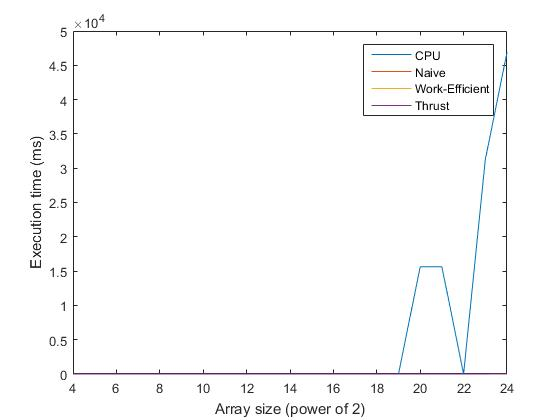
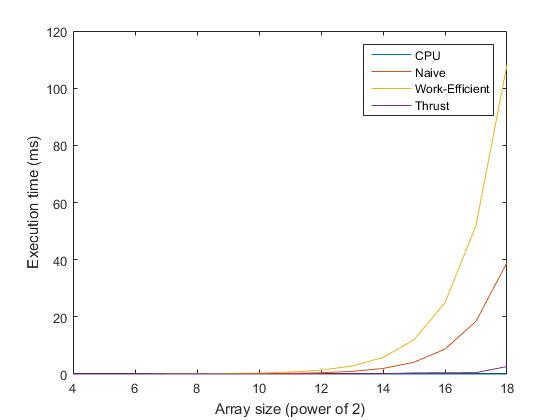
update write up

diff --git a/src/main.cpp b/src/main.cpp
@@ -150,7 +150,7 @@ int main(int argc, char* argv[]) {
 	printf("** SCAN PERFORMANCE **\n");
 	printf("*****************************\n");
 
-	for (int s = 4; s < 25; s++){
+	for (int s = 4; s < 19; s++){
 		int ssize = 1 << s;
 		int *u, *v;
 		u = (int *)malloc(ssize*sizeof(int));
@@ -162,7 +162,7 @@ int main(int argc, char* argv[]) {
 		auto start = std::chrono::high_resolution_clock::now();
 		StreamCompaction::CPU::scan(ssize, v, u);
 		auto end = std::chrono::high_resolution_clock::now();
-		double diff = std::chrono::duration_cast<std::chrono::microseconds>(end-start).count();
+		double diff = std::chrono::duration_cast<std::chrono::milliseconds>(end-start).count();
 		printf("CPU scan: %f\n", diff);
 
 		zeroArray(ssize, v);

diff --git a/README.md b/README.md
@@ -24,6 +24,7 @@ Block size is optimized based on fixed array size (256) and number of blocks. `[
   * Work efficient scan: 2 blocks / 128 threads has the best execution time
 
 ### Performance
+All 4 implementations are ran on various array sizes from `2^4` to `2^18`. Due to memory constraints bigger array sizes are not available.
 
   * All performances
 
@@ -38,16 +39,20 @@ Block size is optimized based on fixed array size (256) and number of blocks. `[
 ![](images/custom-only-performance.jpg)
 
 * Observations
-  * CPU profiling is very unstable, as C++11 `chrono` is not able to return reliable numbers from time to time. However, even under this situation it is obvious that CPU scan execution time increases dramatically as the array size grows. We would assume CPU implementation is `O(n)` and therefore array size is the performance bottleneck. 
-  * Theoretically work-efficient scan should be faster than a naive scan. However somehow this is not the case in performance testing with small array sizes. A profile report shows that up-sweep process is generating 2 times memory transactions as a naive scan. Adding down-sweep process, work-efficient method has about 2.5x as naive method. Also in general naive implementation has a better Occupancy Per SM rate, in term of number of its active blocks against device limit. All these could contribute to a faster execution of naive scan, compared to current work-efficient implementation.
-  * For the sudden performance "improvement" around `2^10`, the reason is simply because all of the available hardware resources are saturated. Since the block size is calculated based on array size over a fixed grid size, the current naive and work-efficient implementation does not handle sizes that go beyond the device limit. Namely, for naive it is `4*512=2^11` and for work-efficient `2*512=2^10`. If they were to have some routines to handle bigger sizes, the performance is expected to be similar to thrust, because the array has to be broken into tiles for calculation, and then merged back again.
-  * Thrust seems to have the best performance. As array size grows its performance goes down, and seems to be worse than naive and work-efficient methods. However as stated above, if these two methods can handle bigger sizes, thrust would still have the best performance among all. From Nsight timeline we can see that it is splitting the problem into tiles and doing work-efficient scan. Thrust runs in 40 blocks with 128 threads each, which accounts for a size of 5120, which is about `2^12`. When array size grows big, building tiles and merging results would be the major bottleneck.
-  * All of the GPU implementations are much better than a CPU one, in terms of scaling to big data set. It seems that for bigger problems, computation power is more of a serious problem than memory I/O, when such I/O are constant.
+  * Theoretically work-efficient scan should be faster than a naive scan. However somehow this is not the case in performance testing with small array sizes. A profile report shows the following which might contribute to the result:
+    * Up-sweep is generating 100% more memory transactions than a naive scan. Adding down-sweep process, work-efficient method has about 150% more than naive method.
+    * Up-sweep is executing 50% more integer operations than naive method.
+    * In general work-efficient method has 8% divergence, while naive method has none.
+    * In general naive implementation has a better Occupancy Per SM rate, in term of number of its active blocks against device limit. All these could contribute to a faster execution of naive scan, compared to current work-efficient implementation.
+  * Thrust seems to have the best performance among GPU implementations. From Nsight timeline we can see that it is splitting the problem into tiles and doing work-efficient scan. Thrust runs in 40 blocks with 128 threads each, which accounts for a size of 5120, which is about `2^12`. When array size grows big, building tiles and merging results would be a major bottleneck.
+  * As array size grows, GPU hardware resources get saturated. More blocks can only be scheduled sequentially, thereby reducing the performance significantly. On the other hand, issue efficiency drops, resulting in wasted cycles.
+  * With almost 0% cache hit rate, as array size increases, more and more time is needed for memory I/O operations.
+  * With all of the factors above combined, the CPU implementation is actually much faster than GPU in the final result. C++11 `chrono` library was only able to pick up the execution time in milliseconds when the CPU code is ran in another nested for-loop for about `2^8` times. The guess is that CPU can still have the best performance up to a point, where linear computation cost outweighs memory I/O time.
 
 * Test program output
   * The extra output `XXX scan: 0.0000000` is used for profiling the execution time of each implementation
   * Radix sort test is also printed, where the test is carried out on the array generated in stream compaction test, and compared against standard C++ vector sort
-  * Performance comparision is also printed. All 4 implementations are ran on various array sizes from `2^4` to `2^24`
+  * Performance comparision is also printed. All 4 implementations are ran on various array sizes from `2^4` to `2^18`
 
 ```
 ****************
@@ -60,7 +65,7 @@ Block size is optimized based on fixed array size (256) and number of blocks. `[
     [   0  38  57  95 132 137 184 199 234 234 246 249 249 ... 6146 6190 ]
     passed
 ==== naive scan, power-of-two ====
-Naive scan: 0.042400
+Naive scan: 0.042304
     passed
 ==== naive scan, non-power-of-two ====
 Naive scan: 0.041088
@@ -69,13 +74,13 @@ Naive scan: 0.041088
 Work-efficient scan: 0.127552
     passed
 ==== work-efficient scan, non-power-of-two ====
-Work-efficient scan: 0.126624
+Work-efficient scan: 0.126304
     passed
 ==== thrust scan, power-of-two ====
-Thrust scan: 3.615200
+Thrust scan: 3.756288
     passed
 ==== thrust scan, non-power-of-two ====
-Thrust scan: 0.016640
+Thrust scan: 0.016544
     passed
 
 *****************************
@@ -92,23 +97,23 @@ Thrust scan: 0.016640
     [   2   3   2   1   3   1   1   1   2   1   2   1   1 ...   2   1 ]
     passed
 ==== work-efficient compact, power-of-two ====
-Work-efficient scan: 0.125120
+Work-efficient scan: 0.125088
     passed
 ==== work-efficient compact, non-power-of-two ====
-Work-efficient scan: 0.125248
+Work-efficient scan: 0.125120
     passed
 
 *****************************
 ** RADIX SORT (Single block/tile) TEST **
 *****************************
-Thrust scan: 0.016576
-Thrust scan: 0.014912
-Thrust scan: 0.014976
-Thrust scan: 0.015008
-Thrust scan: 0.015008
-Thrust scan: 0.014912
+Thrust scan: 0.016512
+Thrust scan: 0.015072
 Thrust scan: 0.014912
 Thrust scan: 0.015008
+Thrust scan: 0.014912
+Thrust scan: 0.014944
+Thrust scan: 0.015008
+Thrust scan: 0.019840
 Radix sort:
     [   0   0   0   0   0   0   0   0   0   0   0   0   0 ...   3   3 ]
 Std sort:
@@ -120,129 +125,93 @@ Std sort:
 *****************************
 ==== Array size: 16 ====
 CPU scan: 0.000000
-Naive scan: 0.020928
-Work-efficient scan: 0.060864
-Thrust scan: 0.017600
+Naive scan: 0.001536
+Work-efficient scan: 0.003136
+Thrust scan: 0.016672
 
 ==== Array size: 32 ====
 CPU scan: 0.000000
-Naive scan: 0.024800
-Work-efficient scan: 0.074144
-Thrust scan: 0.016416
+Naive scan: 0.001536
+Work-efficient scan: 0.003040
+Thrust scan: 0.016512
 
 ==== Array size: 64 ====
 CPU scan: 0.000000
-Naive scan: 0.029664
-Work-efficient scan: 0.087968
-Thrust scan: 0.016736
+Naive scan: 0.029120
+Work-efficient scan: 0.003104
+Thrust scan: 0.016416
 
 ==== Array size: 128 ====
 CPU scan: 0.000000
-Naive scan: 0.033600
-Work-efficient scan: 0.101184
-Thrust scan: 0.016480
+Naive scan: 0.033376
+Work-efficient scan: 0.111296
+Thrust scan: 0.016512
 
 ==== Array size: 256 ====
 CPU scan: 0.000000
-Naive scan: 0.041376
-Work-efficient scan: 0.126336
-Thrust scan: 0.016608
+Naive scan: 0.041056
+Work-efficient scan: 0.126304
+Thrust scan: 0.016512
 
 ==== Array size: 512 ====
 CPU scan: 0.000000
-Naive scan: 0.062336
-Work-efficient scan: 0.193728
-Thrust scan: 0.016672
+Naive scan: 0.063456
+Work-efficient scan: 0.194720
+Thrust scan: 0.016736
 
 ==== Array size: 1024 ====
 CPU scan: 0.000000
-Naive scan: 0.110176
-Work-efficient scan: 0.346016
-Thrust scan: 0.017088
+Naive scan: 0.112128
+Work-efficient scan: 0.352768
+Thrust scan: 0.017056
 
 ==== Array size: 2048 ====
 CPU scan: 0.000000
-Naive scan: 0.219840
-Work-efficient scan: 0.003296
-Thrust scan: 0.020192
+Naive scan: 0.216704
+Work-efficient scan: 0.685760
+Thrust scan: 0.020064
 
 ==== Array size: 4096 ====
 CPU scan: 0.000000
-Naive scan: 0.001504
-Work-efficient scan: 0.003008
-Thrust scan: 0.025056
+Naive scan: 0.439424
+Work-efficient scan: 1.365280
+Thrust scan: 0.024992
 
 ==== Array size: 8192 ====
 CPU scan: 0.000000
-Naive scan: 0.001504
-Work-efficient scan: 0.003040
-Thrust scan: 0.038944
+Naive scan: 0.915264
+Work-efficient scan: 2.785376
+Thrust scan: 0.038912
 
 ==== Array size: 16384 ====
 CPU scan: 0.000000
-Naive scan: 0.001536
-Work-efficient scan: 0.003040
-Thrust scan: 0.067168
+Naive scan: 1.931072
+Work-efficient scan: 5.762080
+Thrust scan: 0.067264
 
 ==== Array size: 32768 ====
 CPU scan: 0.000000
-Naive scan: 0.001600
-Work-efficient scan: 0.003072
-Thrust scan: 0.363552
+Naive scan: 4.107552
+Work-efficient scan: 11.998688
+Thrust scan: 0.393440
 
 ==== Array size: 65536 ====
 CPU scan: 0.000000
-Naive scan: 0.001888
-Work-efficient scan: 0.003136
-Thrust scan: 0.449568
+Naive scan: 8.706624
+Work-efficient scan: 24.970079
+Thrust scan: 0.439232
 
 ==== Array size: 131072 ====
 CPU scan: 0.000000
-Naive scan: 0.001536
-Work-efficient scan: 0.003008
-Thrust scan: 0.446400
+Naive scan: 18.445057
+Work-efficient scan: 51.995682
+Thrust scan: 0.477088
 
 ==== Array size: 262144 ====
 CPU scan: 0.000000
-Naive scan: 0.001536
-Work-efficient scan: 0.003040
-Thrust scan: 0.649120
-
-==== Array size: 524288 ====
-CPU scan: 0.000000
-Naive scan: 0.001696
-Work-efficient scan: 0.003008
-Thrust scan: 0.912192
-
-==== Array size: 1048576 ====
-CPU scan: 15630.000000
-Naive scan: 0.001536
-Work-efficient scan: 0.003072
-Thrust scan: 1.351296
-
-==== Array size: 2097152 ====
-CPU scan: 15627.000000
-Naive scan: 0.001536
-Work-efficient scan: 0.003168
-Thrust scan: 2.192576
-
-==== Array size: 4194304 ====
-CPU scan: 0.000000
-Naive scan: 0.001792
-Work-efficient scan: 0.003072
-Thrust scan: 4.034496
-
-==== Array size: 8388608 ====
-CPU scan: 31247.000000
-Naive scan: 0.001536
-Work-efficient scan: 0.003040
-Thrust scan: 7.794240
-
-==== Array size: 16777216 ====
-CPU scan: 46879.000000
-Naive scan: 0.001504
-Work-efficient scan: 0.003104
-Thrust scan: 15.012032
+Naive scan: 38.985985
+Work-efficient scan: 108.208801
+Thrust scan: 2.610464
 ```
 
 ## Submit
